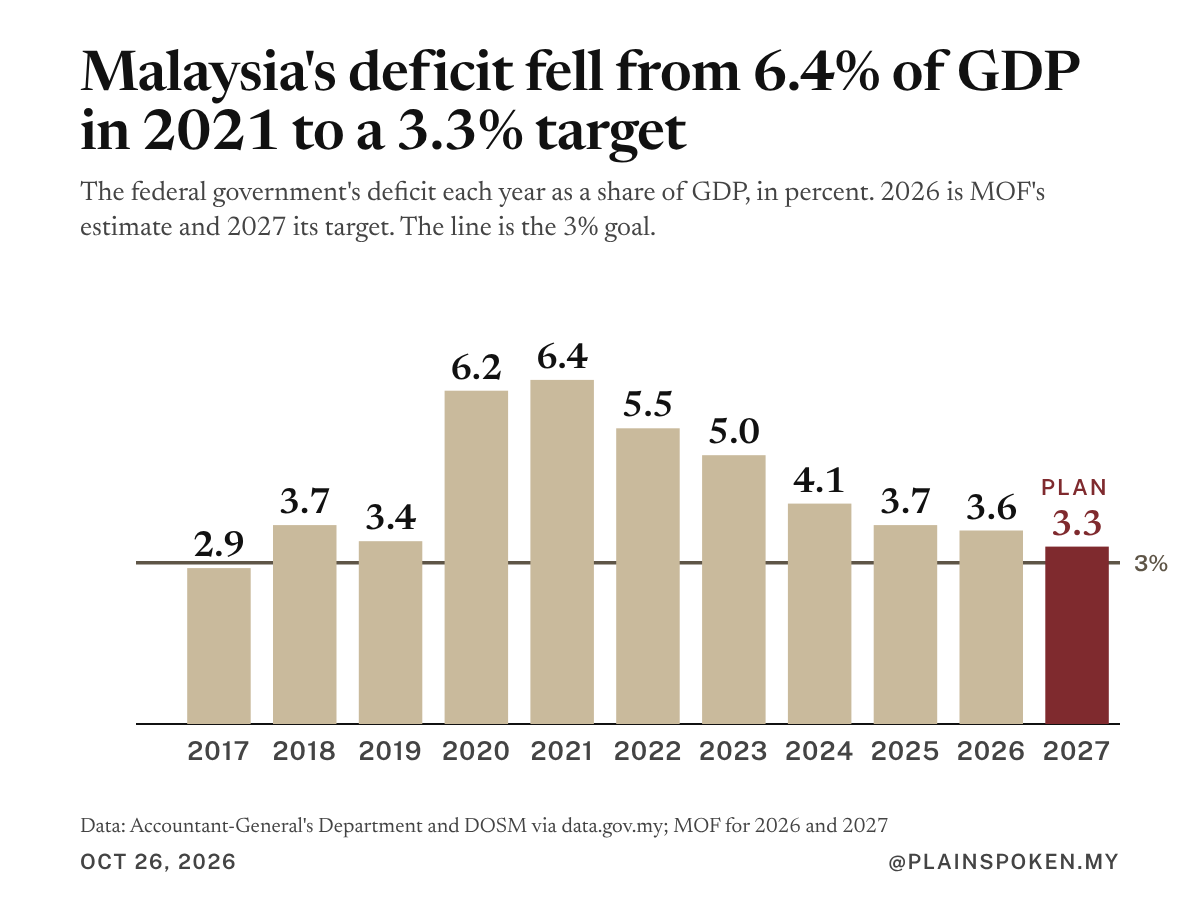
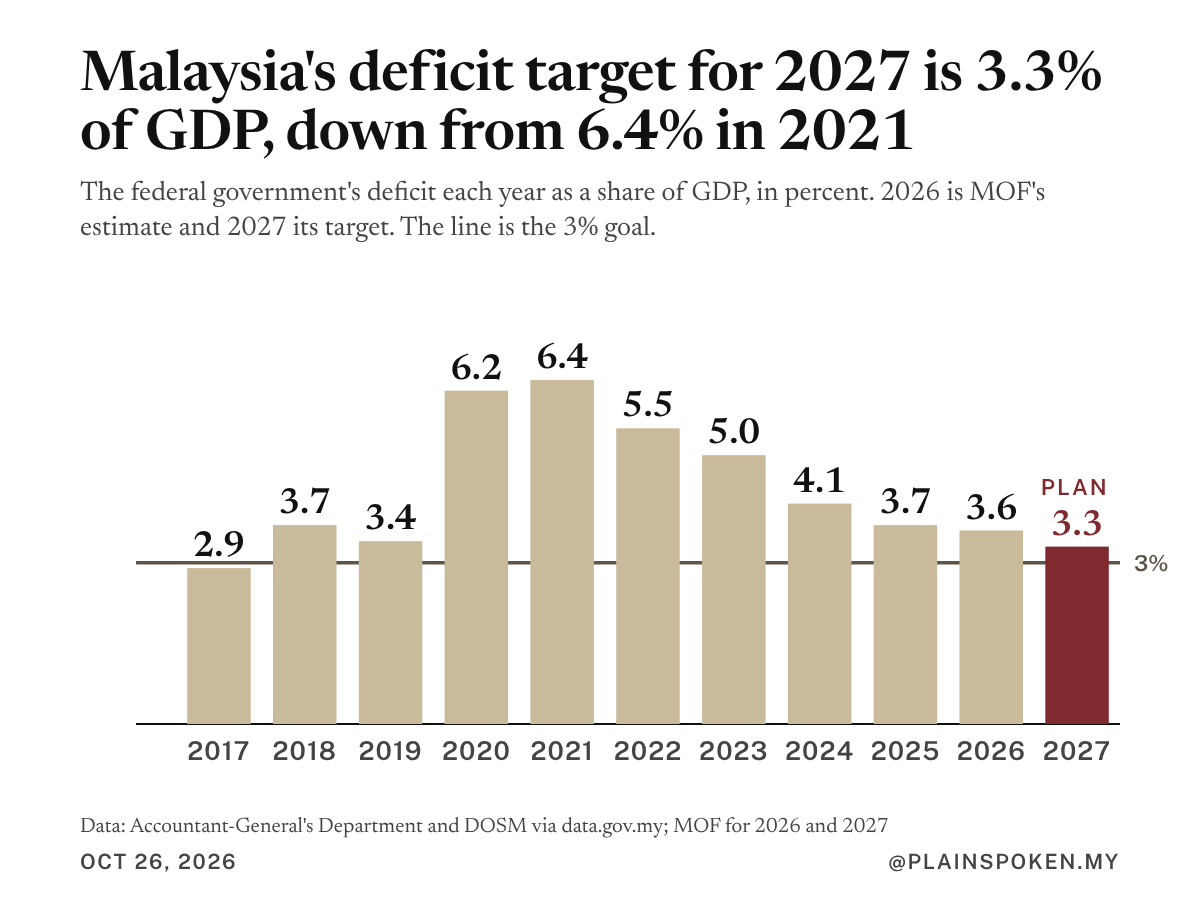
fiscal-deficit: chart headline says 3.3% is the 2027 target; FRA goal wording (3% or less, 60% or less)
Claude-Session: https://claude.ai/code/session_017ywFvwP6HUYiu66hjnRbKD

Changed region(s): [[0.0617, 0.0311, 0.925, 0.1867]]

diff --git a/src/content/explainers/fiscal-deficit.md b/src/content/explainers/fiscal-deficit.md
@@ -27,7 +27,7 @@ The ringgit amount grows with the economy, so MOF also states it as a percentage
 
 If 2027 comes in at 3.3%, it would be the lowest since 2017. In 2021 the deficit was 6.4%.
 
-![Malaysia's deficit fell from 6.4% of GDP in 2021 to a 3.3% target (Chart). The federal government's deficit each year as a share of GDP, in percent. 2026 is MOF's estimate and 2027 its target. The line is the 3% goal.](/images/explainers/fiscal-deficit/chart-fiscal-deficit-2026-10-26.png)
+![Malaysia's deficit target for 2027 is 3.3% of GDP, down from 6.4% in 2021 (Chart). The federal government's deficit each year as a share of GDP, in percent. 2026 is MOF's estimate and 2027 its target. The line is the 3% goal.](/images/explainers/fiscal-deficit/chart-fiscal-deficit-2026-10-26.png)
 
 ## Debt Is What Adds Up From The Deficits.
 
@@ -35,7 +35,7 @@ Each year's borrowing adds to the federal government's debt, the total it owes. 
 
 ## Two Targets Set The Direction.
 
-The Public Finance and Fiscal Responsibility Act 2023 sets a medium-term goal of a deficit below 3% of GDP and debt below 60%. Budget 2027 plans a deficit averaging 3.1% of GDP from 2027 to 2029, so the 3% goal is still ahead. Debt at 63.1% is above 60%.
+The Public Finance and Fiscal Responsibility Act 2023 sets a medium-term goal of a deficit of 3% of GDP or less and debt of 60% or less. Budget 2027 plans a deficit averaging 3.1% of GDP from 2027 to 2029, so the 3% goal is still ahead. Debt at 63.1% is above 60%.
 
 A separate ceiling limits statutory debt, which means the government's bonds and bills, to 65% of GDP. It stood at 61.9% at the end of March 2026.
 
